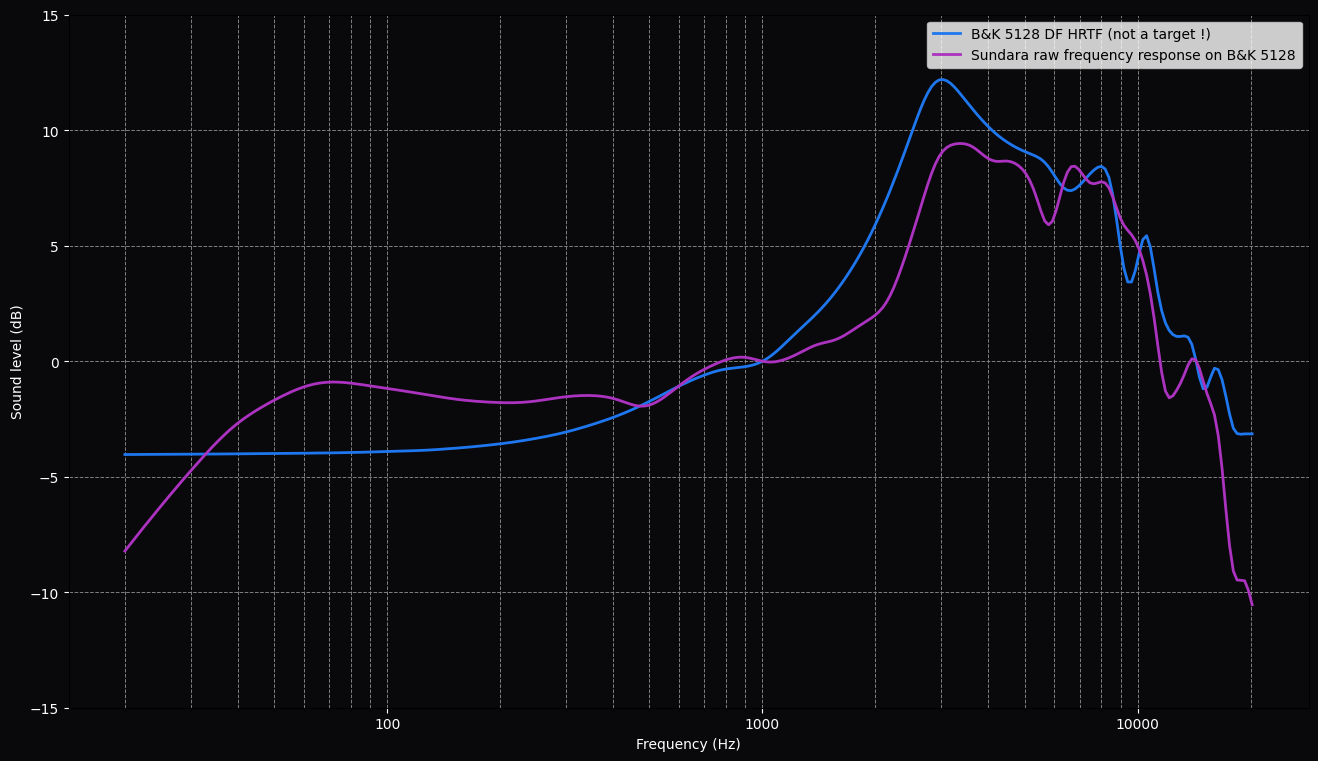
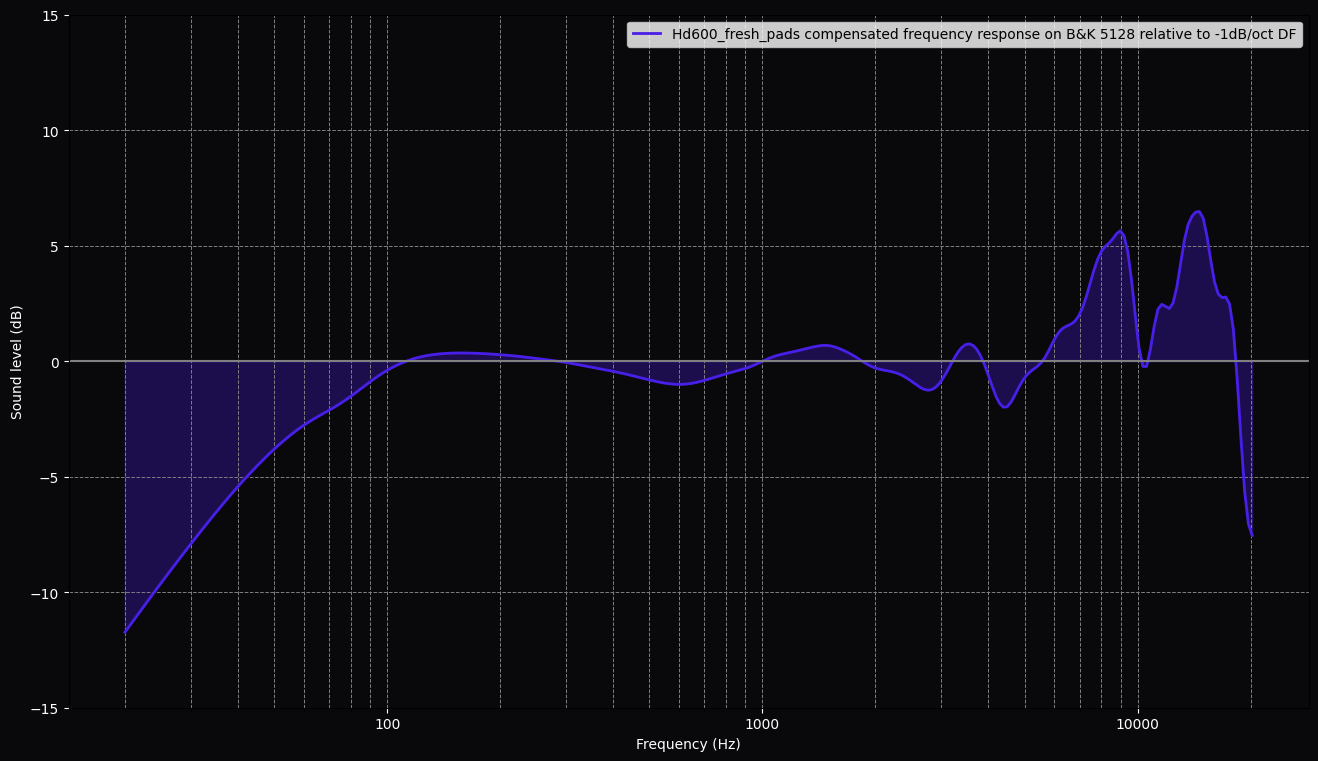
Replace raw frequency response by a -1dB/oct DF compensated one, update screenshots

diff --git a/main.py b/main.py
@@ -4,10 +4,11 @@ from app.interpolate_fr import interpolate_from_file
 from app.plot import plot, generate_color
 from app.normalize_fr import normalize
 from app.hrtf import compensate
+from app.tilt import tilt_phone
 from config import HPTF_NORMALIZATION_FREQUENCY
 
 # Setup
-headphone_name = "hd560s"  # Change here !
+headphone_name = "hd600_fresh_pads"  # Change here !
 # Available headphones currently:
 # sundara (Hifiman)
 # hd600_fresh_pads (Sennheiser)
@@ -69,14 +70,15 @@ plot(
     color=generate_color()
 )
 plot(
-    phone_names=[f"GRAS DF HRTF (not a target !)",
-                 f"{display_name} raw frequency response on GRAS"],
-    phone_list=[baseline_gras, phone_gras],
-    show_area=False
+    phone_name=f"{display_name} compensated frequency response on GRAS relative to -1dB/oct DF",
+    phone_list=[normalize(compensate(tilt_phone(baseline_gras), phone_gras))],
+    show_area=True,
+    add_x_axis_line=True
 )
 plot(
-    phone_names=[f"B&K 5128 DF HRTF (not a target !)",
-                 f"{display_name} raw frequency response on B&K 5128"],
-    phone_list=[baseline_5128, phone_5128],
-    show_area=False
+    phone_name=f"{display_name} compensated frequency response on B&K 5128 relative to -1dB/oct DF",
+    phone_list=[normalize(compensate(tilt_phone(baseline_5128), phone_5128))],
+    show_area=True,
+    add_x_axis_line=True
+
 )

diff --git a/app/plot.py b/app/plot.py
@@ -23,7 +23,8 @@ def plot(
     color=None,
     phone_names: list = [],
     phone_name: str = "",  # If only one label needed (e.g: centered delta)
-    center_y_axis: bool = True
+    center_y_axis: bool = True,
+    add_x_axis_line: bool = False
 ) -> None:
     """Plots a frequency-response curve."""
     # Center the phones
@@ -82,6 +83,10 @@ def plot(
     # Center y-axis
     if center_y_axis:
         ax.set_ylim(-Y_AXIS_SCALE//2, Y_AXIS_SCALE//2)
+
+    # Add x-axis line
+    if add_x_axis_line:
+        ax.axhline(0, color='gray', linewidth=1.5)
 
     # Ticks
     ax.tick_params(axis='x', colors='white')

diff --git a/app/tilt.py b/app/tilt.py
@@ -1,0 +1,19 @@
+from typing import Tuple
+import numpy as np
+
+
+def tilt_phone(
+    phone: Tuple[np.ndarray, np.ndarray],
+    tilt: float = -1.,
+    freq=20.
+) -> Tuple[np.ndarray, np.ndarray]:
+    """
+    The “tilt” is computed as:
+        tilt_adjustment(f) = tilt_db_per_octave * log2(f / f_ref).
+    """
+    frequencies = np.asarray(phone[0], dtype=float)
+    dbs = np.asarray(phone[1], dtype=float)
+    octaves = np.log2(frequencies / freq)
+    tilt_adjustment = tilt * octaves
+    tilted_phone = (frequencies, dbs + tilt_adjustment)
+    return tilted_phone

diff --git a/app/normalize_fr.py b/app/normalize_fr.py
@@ -6,10 +6,10 @@ from config import PHONE_NORMALIZATION_FREQUENCY
 
 
 def normalize(
-    freq_db: Tuple[np.ndarray, np.ndarray],
+    phone: Tuple[np.ndarray, np.ndarray],
     freq: int = PHONE_NORMALIZATION_FREQUENCY
 ) -> Tuple[np.ndarray, np.ndarray]:
-    frequencies, dbs = freq_db
+    frequencies, dbs = phone
 
     # Create an interpolation function to find the dB at the reference frequency
     # fill_value="extrapolate" allows interpolation even if freq is
